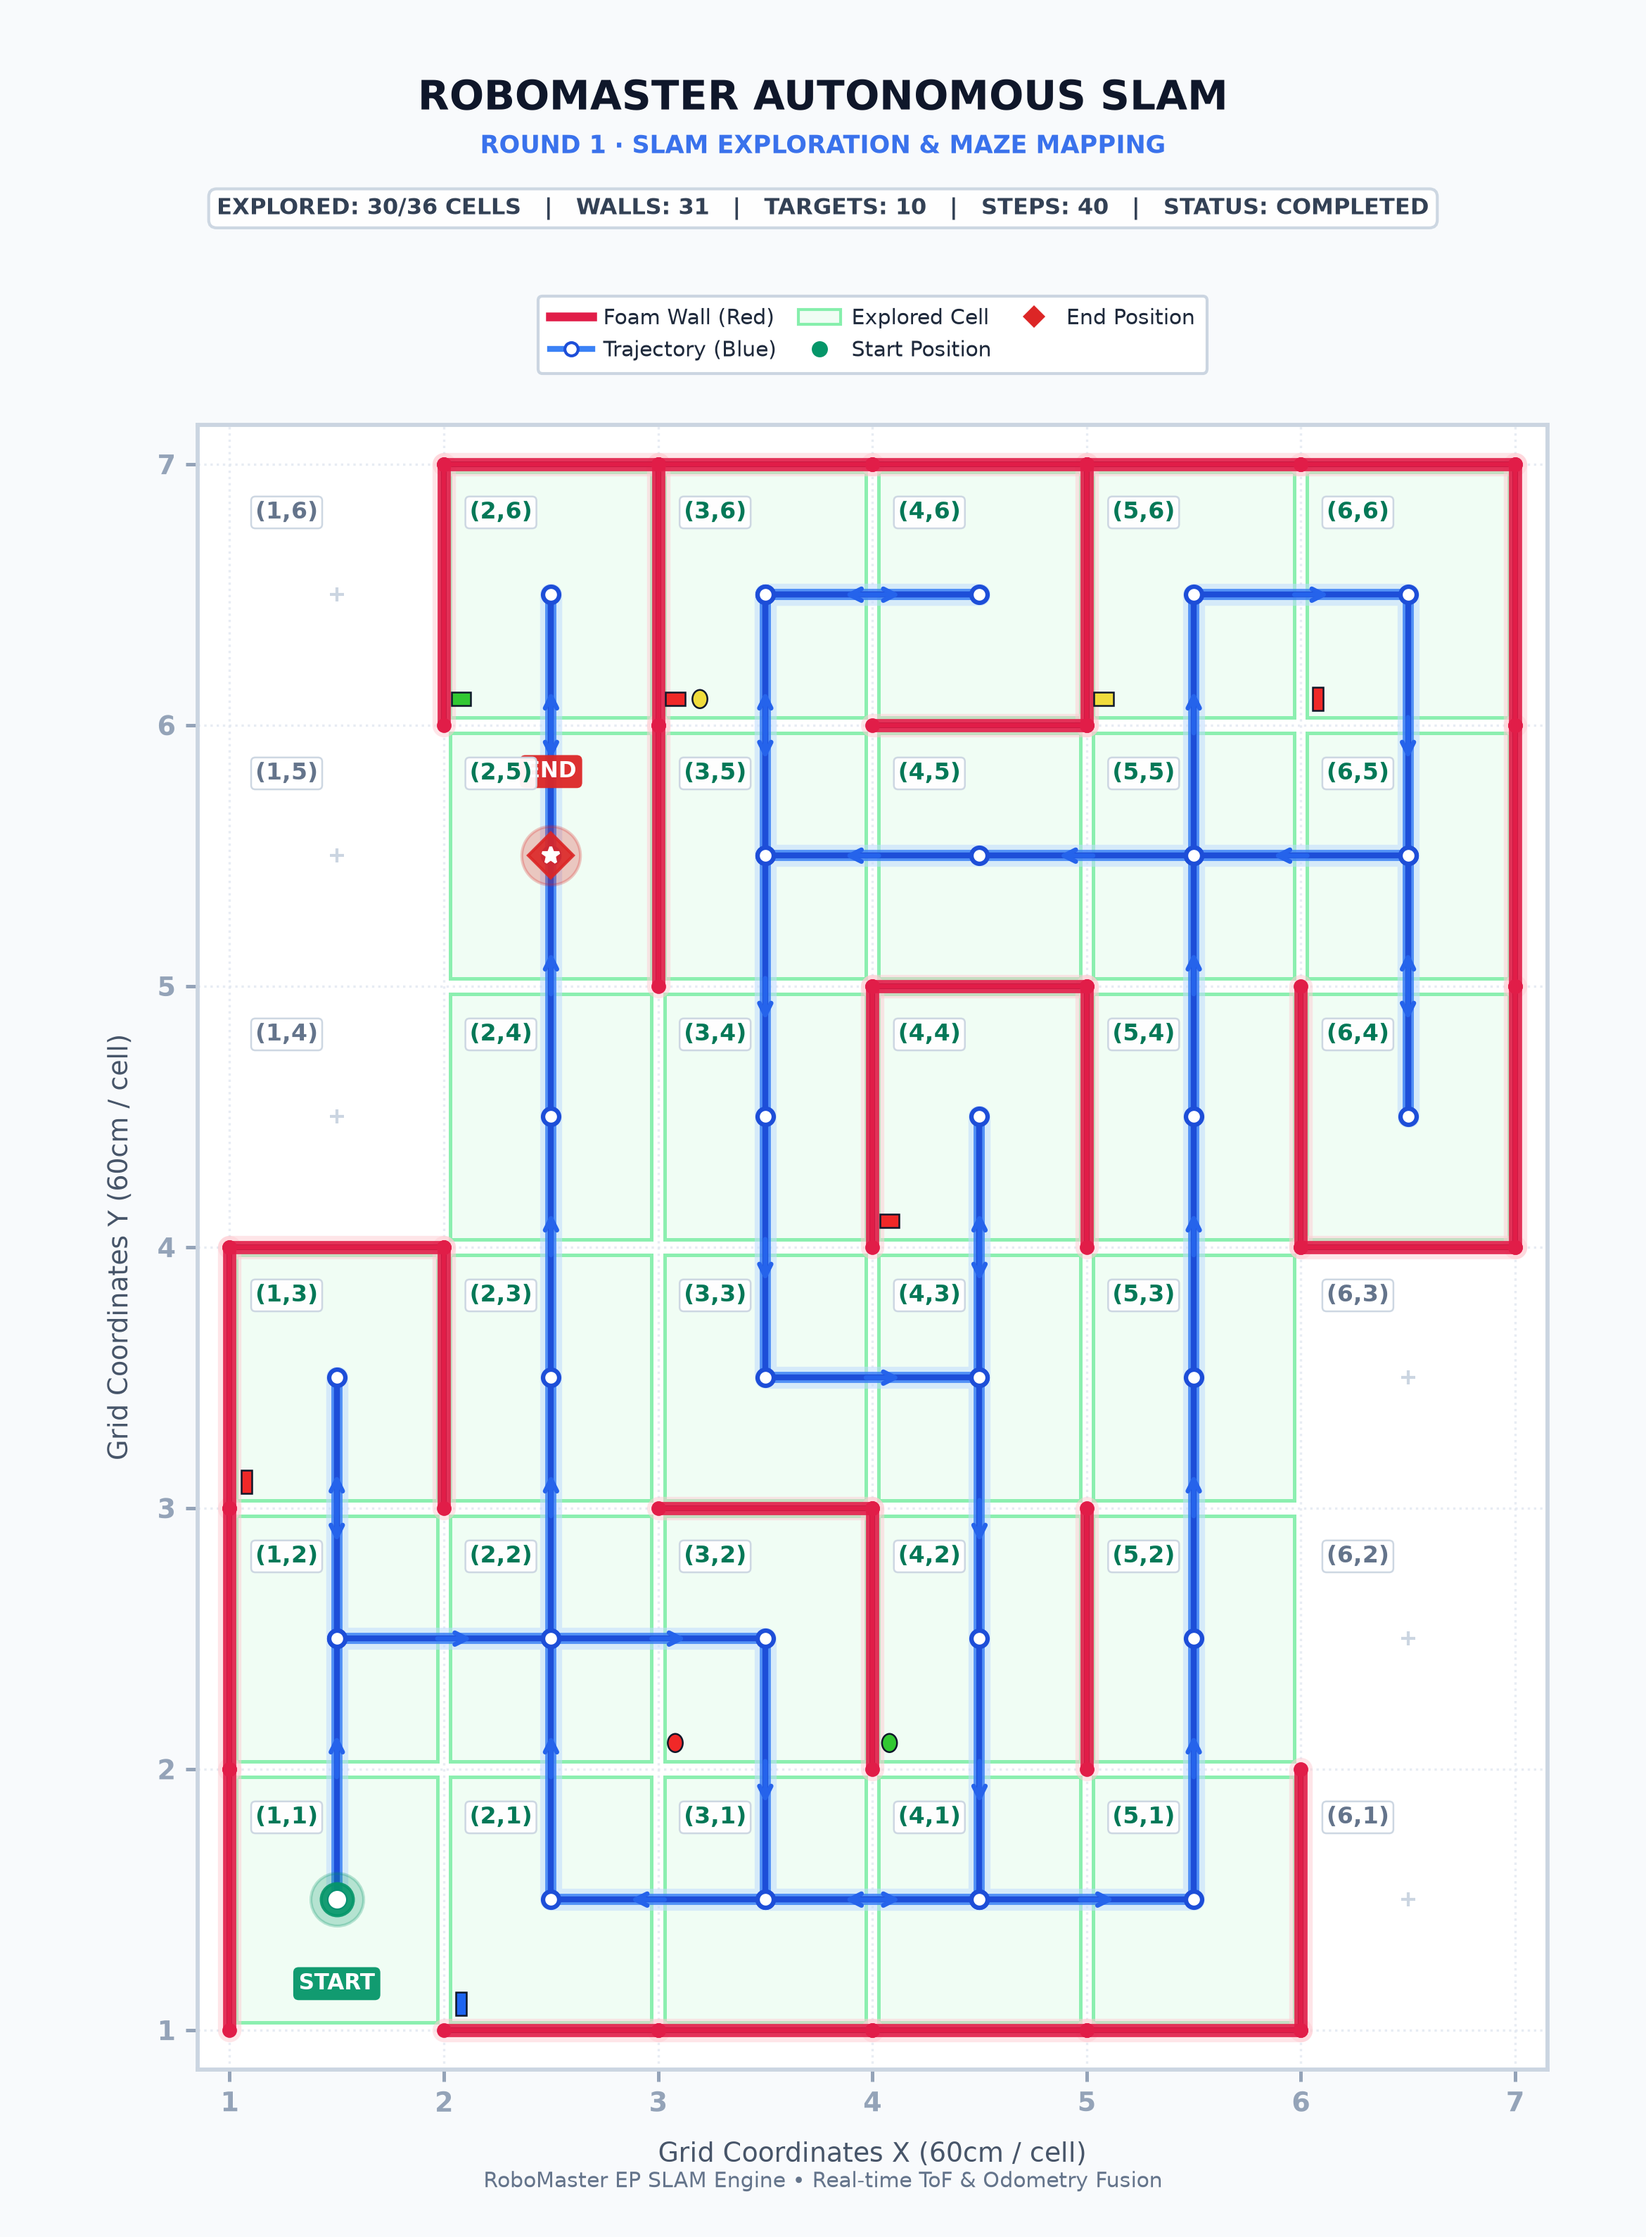
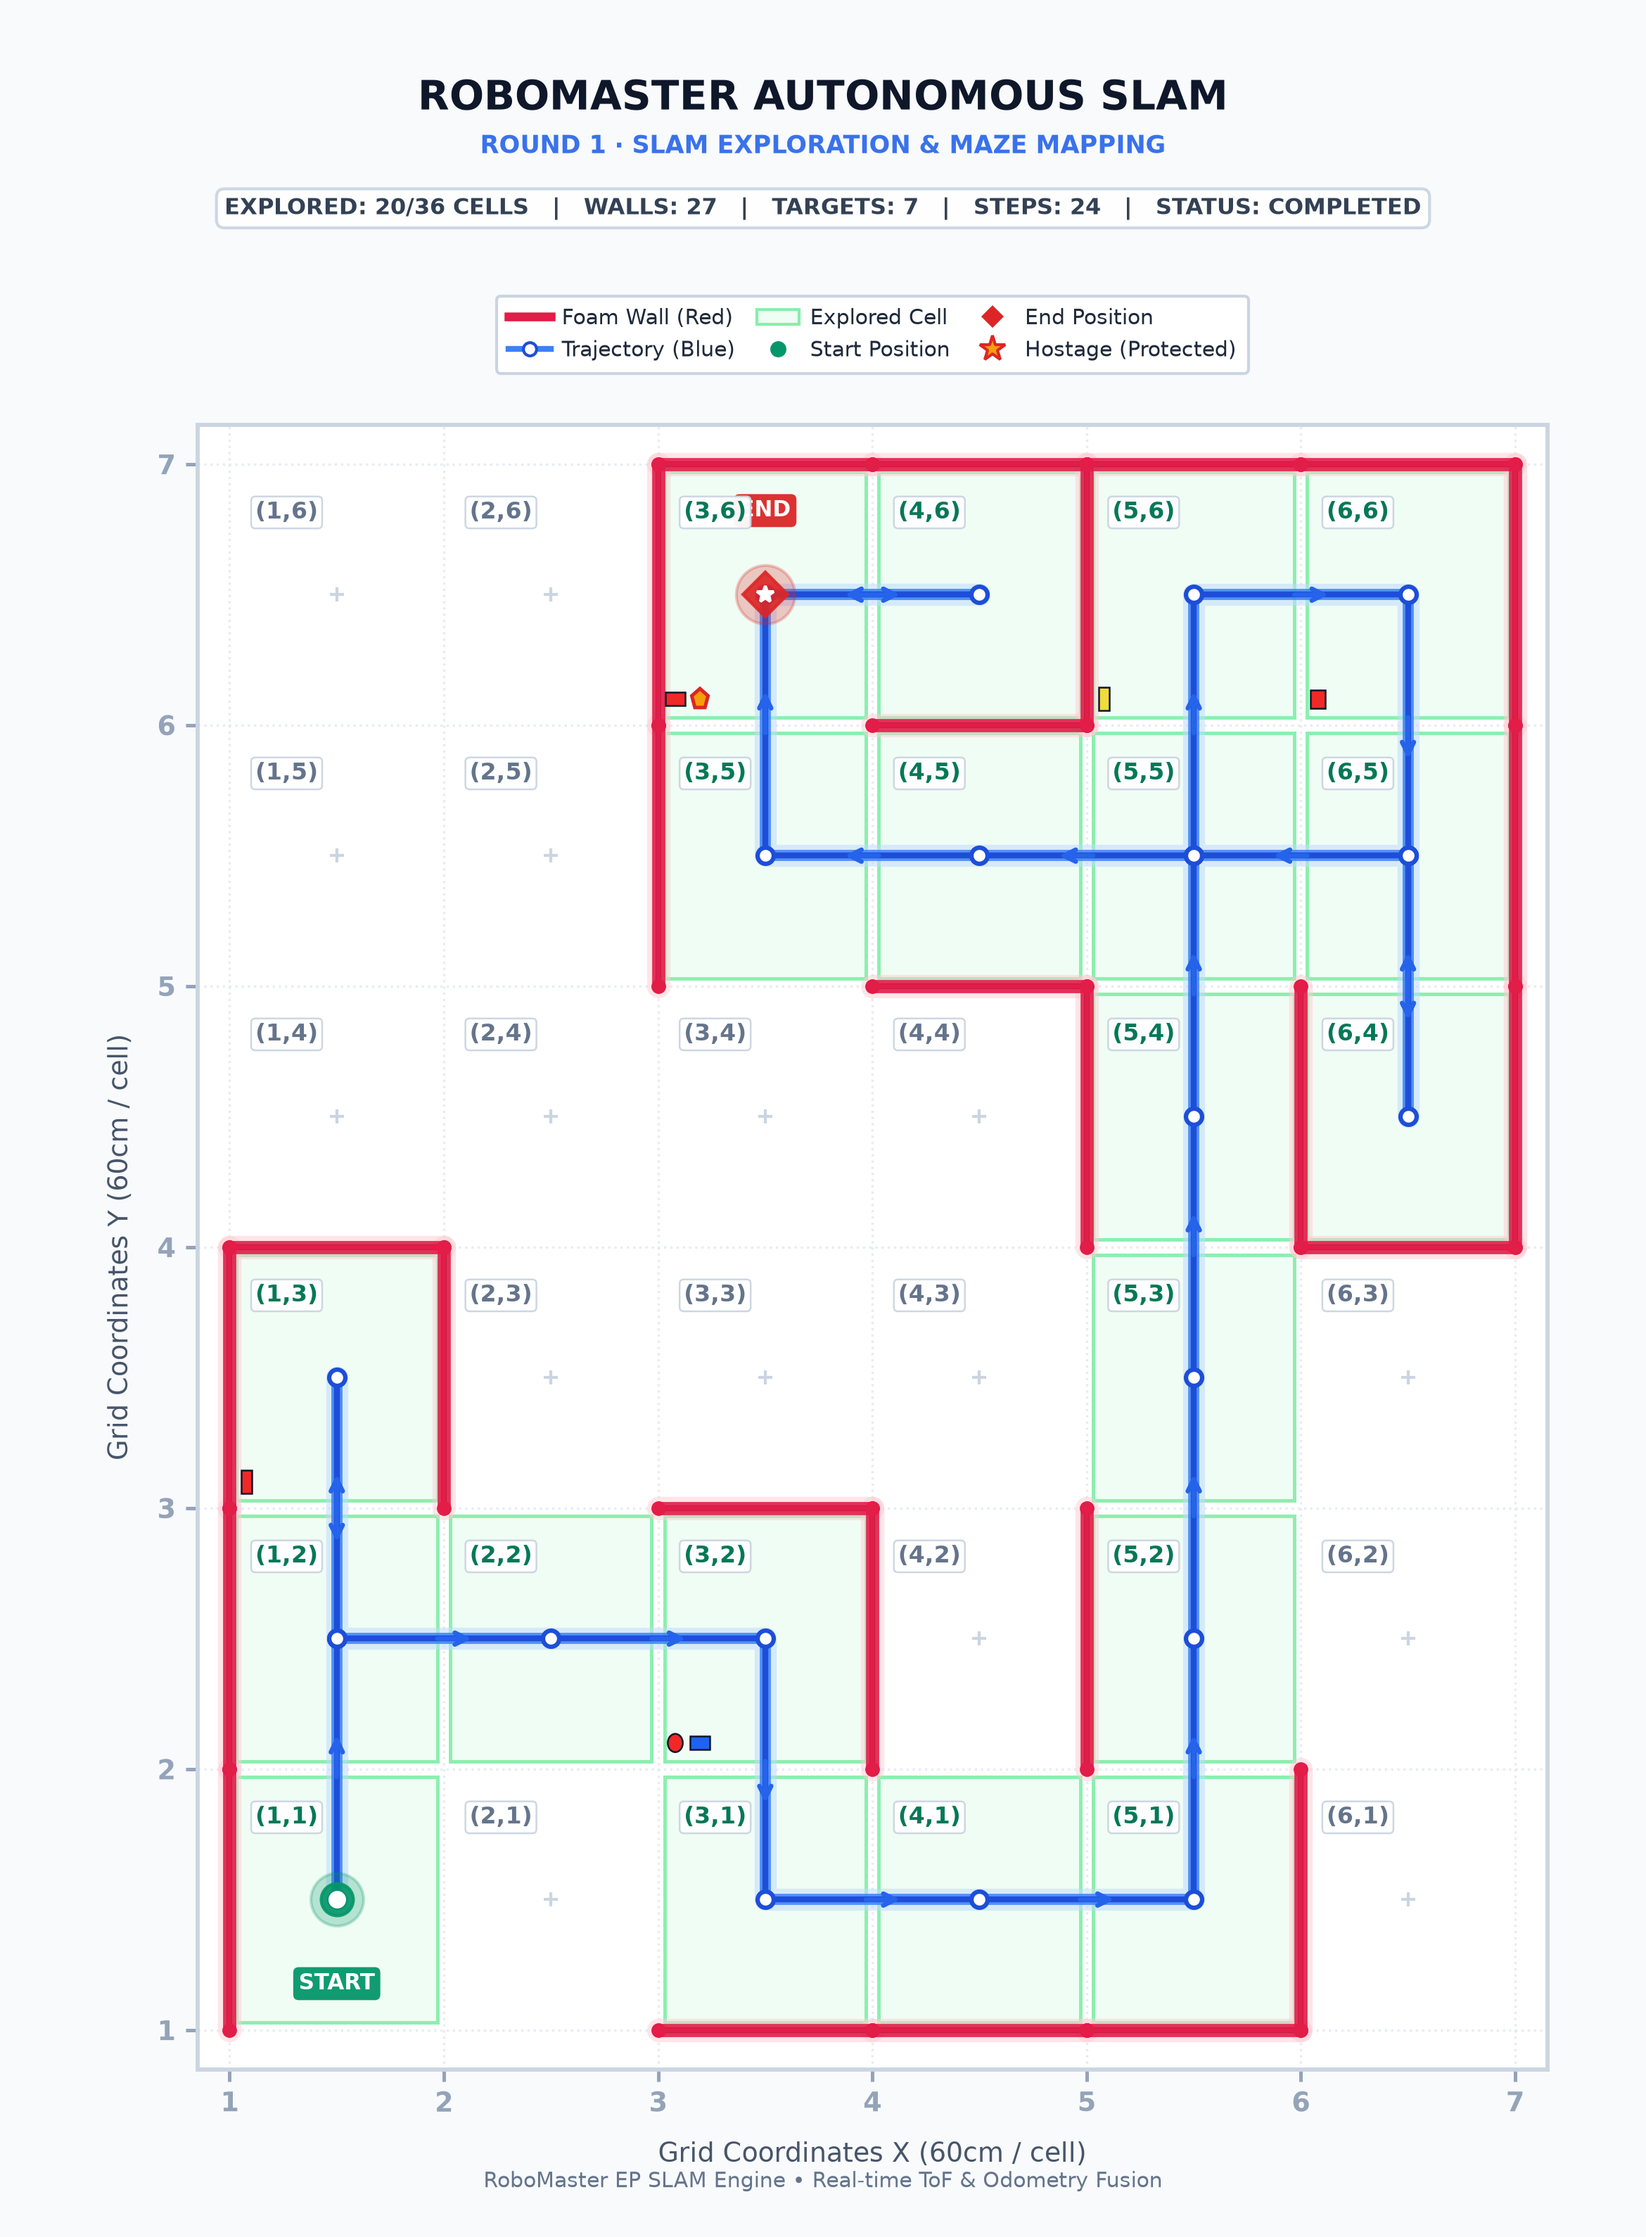
Fix premature exploration stop: relax odometry stall, add auto-retry, and guarantee full maze coverage

diff --git a/robot_control.py b/robot_control.py
@@ -363,9 +363,7 @@ def align_heading(ep_chassis, heading, sim_mode):
         if not ep_chassis.move(x=0, y=0, z=round(-yaw_error, 1),
                                z_speed=ROT_SPEED).wait_for_completed(timeout=2.5):
             ep_chassis.drive_speed(x=0, y=0, z=0)
-            state.stop_requested = True
-            return
-        time.sleep(0.10)
+            time.sleep(0.10)
 
     # One short fine-tune pass, matching the existing turn controller.
     yaw_error = _normalize_angle(target_yaw - state.current_yaw)
@@ -373,9 +371,7 @@ def align_heading(ep_chassis, heading, sim_mode):
         if not ep_chassis.move(x=0, y=0, z=round(-yaw_error, 1),
                                z_speed=ROT_SPEED).wait_for_completed(timeout=2.5):
             ep_chassis.drive_speed(x=0, y=0, z=0)
-            state.stop_requested = True
-            return
-        time.sleep(0.10)
+            time.sleep(0.10)
 
     stop_and_settle(ep_chassis, sim_mode, settle_s=0.20)
     final_error = _normalize_angle(target_yaw - state.current_yaw)
@@ -386,10 +382,10 @@ def align_heading(ep_chassis, heading, sim_mode):
         state.initial_heading = heading
 
 
-def move_one_cell(ep_chassis, sim_mode, heading=None, returning=False, dashboard=None):
+def move_one_cell(ep_chassis, sim_mode, heading=None, returning=False, dashboard=None, retry=1):
     """
     Move forward exactly 1 grid cell (0.60m) using smooth velocity control (drive_speed).
-    Uses tight time-distance coupling and front-wall proximity braking to completely
+    Uses tight time-distance coupling, robust stall grace periods, and front-wall proximity braking to completely
     prevent overshooting into walls.
     """
     if sim_mode:
@@ -420,9 +416,8 @@ def move_one_cell(ep_chassis, sim_mode, heading=None, returning=False, dashboard
     # odometry sample after braking. A short target accumulates a large pose
     # error over a multi-cell route.
     target_dist = config.GRID_SIZE_M
-    # Allow time for acceleration and encoder callbacks, while keeping a firm
-    # upper bound. Cell advancement still requires measured odometry progress.
-    max_duration = (target_dist / SPEED) + 0.80
+    # Allow ample time for acceleration and encoder callbacks while keeping a firm bound.
+    max_duration = (target_dist / SPEED) + 1.80
     # Hold the heading measured after the caller's cardinal alignment. Side
     # IR sensors must not steer the robot sideways: that pulls it off the grid.
     heading_target_yaw = state.current_yaw
@@ -454,9 +449,12 @@ def move_one_cell(ep_chassis, sim_mode, heading=None, returning=False, dashboard
         if traveled >= last_progress_distance + 0.005:
             last_progress_distance = traveled
             last_progress_time = time.time()
-        elif elapsed > 0.30 and time.time() - last_progress_time > 0.50:
+        elif elapsed > 1.20 and time.time() - last_progress_time > 1.20:
             odometry_stalled = True
             break
+        elif elapsed > 0.40 and traveled < 0.005:
+            # Re-assert forward speed command in case initial CAN bus packet ramp was sluggish
+            ep_chassis.drive_speed(x=SPEED, y=0, z=heading_correction())
 
         # 1. Emergency collision stop threshold (increased slightly from 60mm to EMERGENCY_STOP_DIST_MM)
         if not math.isfinite(float(state.current_distance)) or state.current_distance <= 30:
@@ -539,6 +537,18 @@ def move_one_cell(ep_chassis, sim_mode, heading=None, returning=False, dashboard
         print(f"⚠ หยุดฉุกเฉิน! กำแพงข้างหน้า ({state.current_distance:.0f}mm < 60mm)")
     if not move_completed:
         print(f"[MOVE INCOMPLETE] refusing to advance the map cell (traveled={traveled*100:.1f}cm)")
+
+    # Automatic recovery retry: if move didn't complete and odometry stalled near start with clear front, retry once
+    if not move_completed and (odometry_stalled or traveled < 0.05) and not emergency_stop and not state.stop_requested and retry > 0:
+        if _front_is_clear(state.current_distance):
+            if dashboard:
+                dashboard.log("⚠ ล้อหมุนไม่ออกชั่วคราว (Odometry start lag) -> กำลังลองเคลื่อนที่ใหม่อีกครั้ง (Auto-retry)...")
+            stop_and_settle(ep_chassis, sim_mode, settle_s=0.20)
+            # Give a brief nudge forward to overcome static wheel friction
+            ep_chassis.drive_speed(x=SPEED, y=0, z=0)
+            time.sleep(0.12)
+            return move_one_cell(ep_chassis, sim_mode, heading=heading, returning=returning, dashboard=dashboard, retry=retry - 1)
+
     return move_completed
 
 

diff --git a/slam.py b/slam.py
@@ -253,7 +253,12 @@ def _run_target_round(ep_chassis, ep_gimbal, ep_blaster, camera_reader, start_po
                         f"Target route stopped at {position}: {state.last_move_reason}, "
                         f"ToF {front_dist:.0f}mm, moved {state.last_move_distance_m * 100:.1f}cm."
                     )
-                state.stop_requested = True
+                # Mark blocked edge so A* reroutes to next target instead of cancelling entire round
+                x, y = position
+                if heading == "NORTH": state.detected_h_walls.add((x, y))
+                elif heading == "SOUTH": state.detected_h_walls.add((x, y - 1))
+                elif heading == "EAST": state.detected_v_walls.add((x, y))
+                elif heading == "WEST": state.detected_v_walls.add((x - 1, y))
                 break
             position = next_cell
             step += 1
@@ -694,11 +699,25 @@ def run_exploration(sim_mode, start_config, dashboard, ground_truth=None, missio
                         position, heading, step,
                         f"Position synchronized from odometry: {position}",
                     )
-                # A wall/emergency brake is a completed cell observation, not
-                # a mission failure. Continue surveying from the measured cell;
-                # stop only when pose data are invalid or a non-wall move fails.
+                # A non-obstacle move stop (e.g. odometry stall or timeout) is not a mission failure.
+                # Do NOT terminate the exploration run! Keep the robot surveying from its measured position,
+                # mark this edge as impassable so pathfinding will navigate around it to reach
+                # all remaining unvisited cells in the maze.
                 if not obstacle_stop and not crossed_into_next_cell:
-                    state.stop_requested = True
+                    x, y = position
+                    if heading == "NORTH":
+                        state.detected_h_walls.add((x, y))
+                    elif heading == "SOUTH":
+                        state.detected_h_walls.add((x, y - 1))
+                    elif heading == "EAST":
+                        state.detected_v_walls.add((x, y))
+                    elif heading == "WEST":
+                        state.detected_v_walls.add((x - 1, y))
+                    if dashboard:
+                        dashboard.log(
+                            f"⚠ เดินหน้าไม่สำเร็จ ({state.last_move_reason}) "
+                            f"-> บันทึกสิ่งกีดขวาง และคำนวณเส้นทางอื่นเพื่อสำรวจช่องที่เหลือให้ครบทั้งแมพ"
+                        )
 
             step += 1
 

diff --git a/navigation.py b/navigation.py
@@ -144,8 +144,8 @@ def find_path_to_nearest_unvisited(start, visited, current_heading=None):
     while open_set:
         f, _cnt, curr, curr_heading = heapq.heappop(open_set)
 
-        # Goal: ช่องที่เปิดแล้ว (discovered) แต่ยังไม่ได้เยี่ยมชม (not visited)
-        if curr not in visited and curr in state.discovered_cells:
+        # Goal: ช่องที่ยังไม่ได้เยี่ยมชม (Unvisited frontier cell ที่เข้าถึงได้ผ่านทางเปิด)
+        if curr not in visited:
             path = []
             key = (curr, curr_heading)
             while key is not None:
@@ -153,6 +153,7 @@ def find_path_to_nearest_unvisited(start, visited, current_heading=None):
                 key = parent[key]
             return list(reversed(path))
 
+        # ขยายเส้นทางเฉพาะจากช่องที่เคยสำรวจกำแพงแล้ว (visited) เท่านั้น
         for d in DIRECTIONS:
             if is_wall_between(curr, d):
                 continue
@@ -185,7 +186,7 @@ def _bfs_nearest_unvisited(start, visited):
     while queue:
         curr = queue.popleft()
 
-        if curr not in visited and curr in state.discovered_cells:
+        if curr not in visited:
             path = []
             c = curr
             while c is not None:

diff --git a/evaluation.py b/evaluation.py
@@ -318,7 +318,7 @@ def save_outputs(round_name=None, generate_plot=True):
             ax.plot(tx[-1], ty[-1], marker="*", color="#ffffff", markersize=6, zorder=12)
             ax.text(
                 tx[-1], ty[-1] + 0.28, "END", color="#ffffff", fontsize=7.5,
-                fontweight="heavy", ha="center", va="bottom",
+                fontweight="bold", ha="center", va="bottom",
                 bbox=dict(boxstyle="round,pad=0.25", facecolor=end_col, edgecolor="none", alpha=0.95),
                 zorder=13,
             )
@@ -368,7 +368,7 @@ def save_outputs(round_name=None, generate_plot=True):
         if has_hostage:
             legend_elements.append(
                 Line2D([0], [0], marker="*", color="w", markerfacecolor="#f59e0b",
-                       markeredgecolor="#dc2626", markersize=9.0, label="Hostage (ตัวประกัน ⭐)")
+                       markeredgecolor="#dc2626", markersize=9.0, label="Hostage (Protected)")
             )
 
         legend = ax.legend(
